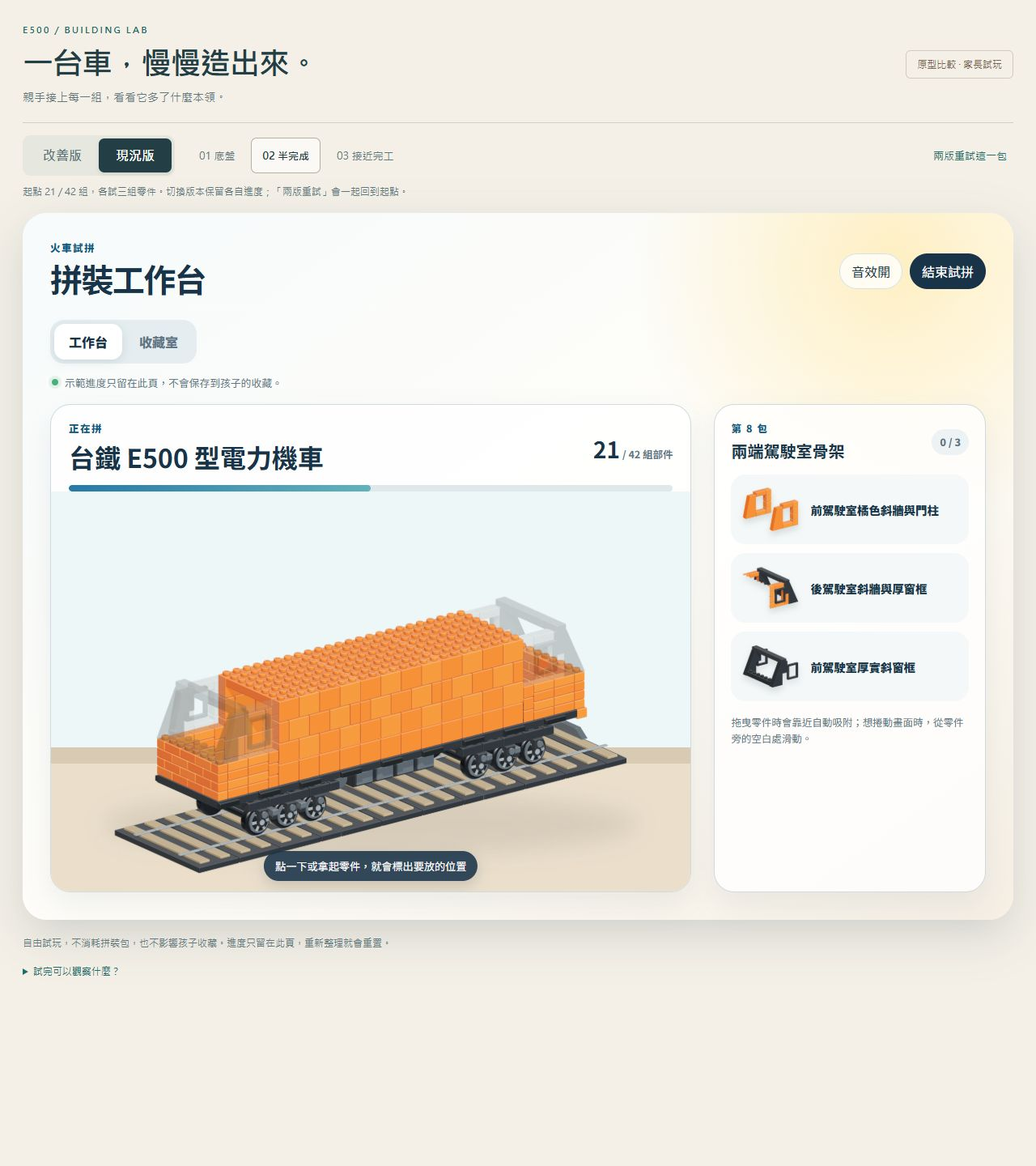
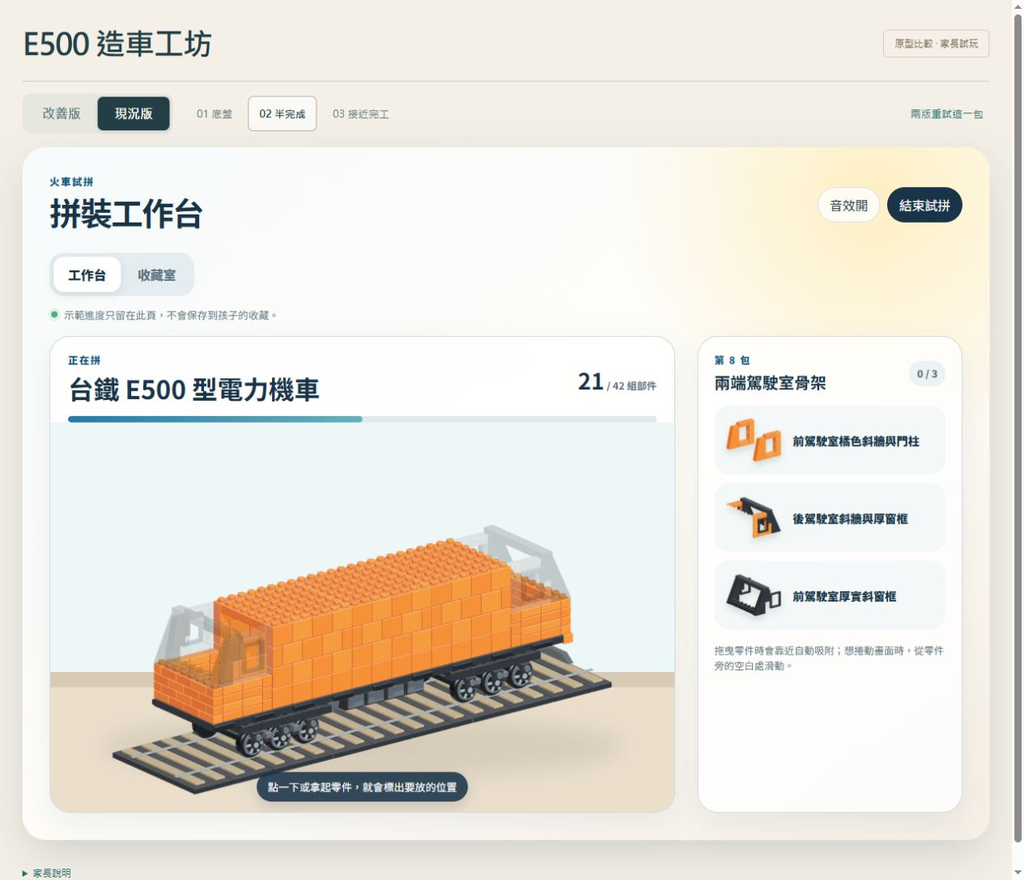
feat(parent): guide E500 assembly with pictures

diff --git a/docs/parent/e500-lab.css b/docs/parent/e500-lab.css
@@ -10,7 +10,8 @@ h1,h2,h3,p { margin:0; }
 .lab-heading { display:flex; justify-content:space-between; gap:18px; align-items:center; margin-bottom:22px; }
 .eyebrow { font-size:11px; letter-spacing:.2em; font-weight:800; color:var(--teal); margin-bottom:9px; }
 .lab-heading h1 { font-size:clamp(25px,3vw,38px); letter-spacing:-.04em; font-weight:800; }
-.lab-heading h1 + p { color:var(--muted); font-size:14px; margin-top:9px; }
+.icon { width:24px; height:24px; flex-shrink:0; vertical-align:middle; pointer-events:none; }
+.part-art { overflow:visible; pointer-events:none; }
 .prototype-badge { border:1px solid #d3cbbd; padding:9px 13px; border-radius:6px; font-size:12px; flex-shrink:0; color:#75634c; }
 .comparison { border-top:1px solid #d3cfc4; padding:15px 0 17px; }
 .comparison-row { display:flex; flex-wrap:wrap; align-items:center; gap:16px; }
@@ -26,14 +27,21 @@ h1,h2,h3,p { margin:0; }
 .workshop { border:1px solid #d3d9d0; background:#fcfbf7; border-radius:18px; overflow:hidden; box-shadow:0 16px 40px #253b4310; }
 .workshop-top { display:flex; justify-content:space-between; align-items:center; gap:20px; padding:23px 28px 17px; }
 .workshop-top h2 { font-size:25px; letter-spacing:-.025em; }
-.workshop-top .eyebrow { margin-bottom:7px; }
+.model-heading { display:flex; align-items:center; gap:18px; }
+.model-count { font-size:20px; font-weight:700; color:var(--teal); }
+.model-count small { font-size:14px; font-weight:500; color:var(--muted); }
 .subtle { color:var(--muted); font-size:12px; line-height:1.6; }
 .tool-actions { display:flex; gap:8px; }
-.quiet-button { min-height:44px; border:1px solid var(--line); border-radius:8px; padding:8px 14px; color:var(--ink); background:transparent; font-size:13px; }
+.quiet-button { display:inline-flex; align-items:center; justify-content:center; gap:8px; min-height:48px; border:1px solid var(--line); border-radius:8px; padding:8px 14px; color:var(--ink); background:transparent; font-size:14px; }
+.icon-button { width:48px; padding:10px; }
 .chapters { display:flex; margin:0 28px 18px; padding:0; list-style:none; gap:4px; }
-.chapters li { flex:1; font-size:12px; color:#7c8c8b; border-top:3px solid #dce1d9; padding-top:9px; }
+.chapters li { flex:1; display:flex; justify-content:center; align-items:center; gap:10px; color:#7c8c8b; border-bottom:3px solid #dce1d9; padding:5px 0 10px; }
+.chapters .part-art { width:62px; height:38px; filter:grayscale(1); opacity:.5; }
+.chapter-number { display:flex; align-items:center; justify-content:center; width:23px; height:23px; border:1px solid currentColor; border-radius:50%; font-size:12px; }
+.chapter-number .icon { width:16px; height:16px; }
 .chapters li.done { border-color:var(--teal); color:var(--teal); }
-.chapters li.active { border-color:var(--orange); color:#a34320; font-weight:750; }
+.chapters li.active { border-color:var(--orange); color:#a34320; background:#fff0df; border-radius:8px 8px 0 0; }
+.chapters li.done .part-art, .chapters li.active .part-art { filter:none; opacity:1; }
 .bench-grid { display:grid; grid-template-columns:minmax(0,1fr) 270px; align-items:stretch; }
 .model-area { min-width:0; background:#e8ede5; position:relative; }
 .scene { width:100%; display:block; background:radial-gradient(ellipse at 45% 72%,#f7f7ed 5%,#e8ede5 68%); touch-action:pan-y; }
@@ -43,54 +51,66 @@ h1,h2,h3,p { margin:0; }
 .ground-line { stroke:#d4dbcf; stroke-width:1; }
 .contact-ring { fill:none; stroke:#cf692f; stroke-width:2.5; stroke-dasharray:5 4; }
 .contact-dot { fill:#fff9e7; stroke:#bd541f; stroke-width:2; }
+.join-arrow { fill:none; stroke:#bd541f; stroke-width:4; stroke-linecap:round; stroke-linejoin:round; }
 .join-guide { pointer-events:none; }
 .join-guide.is-near .contact-ring { stroke:#187365; stroke-dasharray:none; stroke-width:4; }
 .destination { fill:#fff5; stroke:#b36e42; stroke-width:1; stroke-dasharray:4 4; }
 .ghost-part { opacity:.20; filter:grayscale(1); pointer-events:none; }
 .placed-new { filter:drop-shadow(0 0 3px #ecad62); }
-.scene-note { position:absolute; top:16px; left:22px; padding:7px 11px; border:1px solid #cbd4c7; border-radius:5px; font-size:11px; letter-spacing:.04em; background:#f8faf4ce; color:#587166; pointer-events:none; }
-.scene-caption { display:flex; align-items:center; gap:12px; justify-content:space-between; padding:14px 22px; background:#f5f5ed; border-top:1px solid #dbe0d3; min-height:78px; }
-.scene-caption p { font-size:14px; line-height:1.6; }
-.scene-caption small { color:var(--muted); display:block; font-size:12px; margin-top:3px; }
-.reference { display:flex; align-items:center; justify-content:center; gap:12px; padding:10px 18px; border-top:1px solid #dbe0d3; }
-.reference svg { width:135px; max-height:85px; }
-.reference p { font-size:12px; color:var(--muted); line-height:1.7; }
-.reference strong { display:block; color:var(--ink); font-weight:650; }
+.scene-note { position:absolute; display:flex; align-items:center; gap:6px; top:12px; left:18px; padding:7px 11px; border:1px solid #cbd4c7; border-radius:5px; font-size:13px; background:#f8faf4ce; color:#587166; pointer-events:none; }
+.scene-caption { display:flex; align-items:center; justify-content:center; padding:12px 18px; background:#f5f5ed; border-top:1px solid #dbe0d3; min-height:102px; }
+.picture-instructions { display:flex; align-items:center; justify-content:center; gap:12px; }
+.picture-instructions > .icon { width:20px; color:var(--muted); }
+.picture-step { position:relative; width:104px; height:76px; padding:12px 18px 9px 8px; border:1px solid #dde0d5; background:#fff; border-radius:8px; }
+.picture-step b { position:absolute; top:-7px; left:-6px; display:grid; place-items:center; width:21px; height:21px; font-size:11px; background:var(--ink); color:white; border-radius:50%; }
+.picture-step .part-art { width:100%; height:100%; }
+.picture-step .gesture { position:absolute; right:0; bottom:0; background:#fff; border-radius:5px; padding:3px; color:var(--orange); }
+.picture-step .gesture .icon { width:25px; height:25px; }
+.picture-step.target-step { border:2px dashed var(--orange); }
+.picture-step.target-step .part-art { opacity:.25; }
+.picture-step .success { background:#e4f0e4; color:var(--teal); }
+.pack-done { display:flex; gap:28px; color:var(--teal); }
+.pack-done .icon { width:35px; height:35px; }
 .tray { background:#fffcf6; border-left:1px solid #dce0d6; padding:22px 19px; display:flex; flex-direction:column; }
-.tray h3 { font-size:20px; margin:4px 0 8px; }
-.tray .subtle { margin-bottom:16px; }
+.pack-heading { display:flex; justify-content:space-between; align-items:center; margin-bottom:18px; gap:12px; }
+.pack-heading > span { display:flex; align-items:center; gap:6px; font-size:14px; font-weight:650; color:var(--teal); }
+.pack-dots i { border:1.5px solid #b6c5b4; border-radius:50%; width:19px; height:19px; }
+.pack-dots i.done { background:var(--teal); border-color:var(--teal); color:white; }
+.pack-dots .icon { width:16px; height:16px; display:block; }
 .part-list { display:grid; gap:10px; }
-.part-button { display:flex; align-items:center; gap:10px; width:100%; min-height:95px; border:1px solid #deded2; border-radius:10px; padding:9px; background:#fff; text-align:left; color:var(--ink); touch-action:none; user-select:none; -webkit-user-select:none; }
-.part-button svg { width:90px; height:64px; flex-shrink:0; filter:drop-shadow(0 5px 3px #263d3926); overflow:visible; pointer-events:none; }
-.part-button span { font-size:13px; line-height:1.5; pointer-events:none; }
-.part-button small { display:block; color:var(--muted); font-size:11px; margin-top:4px; }
+.part-button { display:flex; align-items:center; justify-content:center; gap:15px; width:100%; min-height:106px; border:1px solid #deded2; border-radius:10px; padding:10px; background:#fff; color:var(--ink); touch-action:none; user-select:none; -webkit-user-select:none; }
+.part-button .part-art { width:135px; height:80px; max-width:calc(100% - 38px); filter:drop-shadow(0 5px 3px #263d3926); }
+.part-state { color:var(--teal); }
+.part-state .icon { width:23px; height:23px; }
 .part-button[aria-pressed="true"] { border-color:var(--orange); background:#fff0df; box-shadow:0 0 0 2px #c7552720; }
 .part-button:disabled { background:#edf2e9; border-color:#d5dfcf; color:#4f6d54; }
-.part-button:disabled svg { opacity:.45; }
-.tray-tip { margin-top:18px; padding-top:16px; border-top:1px solid #e3e4d9; font-size:12px; line-height:1.7; color:var(--muted); }
-.primary { min-height:46px; border:0; border-radius:8px; padding:10px 16px; color:white; background:var(--teal); font-weight:700; }
+.part-button:disabled .part-art { opacity:.45; }
+.primary { display:inline-flex; align-items:center; justify-content:center; gap:10px; min-height:50px; border:0; border-radius:8px; padding:10px 16px; color:white; background:var(--teal); font-weight:700; }
 .place-button { margin-top:14px; width:100%; }
 .place-button:disabled { background:#c5cec3; color:#546158; }
-.ready-status { margin-top:8px; font-size:12px; min-height:19px; color:var(--teal); }
-.round-end { margin-top:14px; padding:16px; background:#e9f0e3; border-radius:10px; }
-.round-end strong { display:block; line-height:1.6; }
-.round-end p { font-size:12px; line-height:1.7; margin:8px 0 12px; }
-.round-end button { width:100%; margin-top:8px; }
-.milestone { padding:18px 26px; display:flex; align-items:center; gap:15px; border-top:1px solid #d8e0d1; background:#eef3e8; }
-.milestone-number { font-size:29px; color:var(--teal); font-weight:300; }
-.milestone p { font-size:13px; line-height:1.6; }
-.milestone small { display:block; color:var(--muted); font-size:12px; }
-.milestone button { margin-left:auto; flex-shrink:0; }
-.push-controls { display:flex; align-items:center; justify-content:center; gap:16px; padding:15px; background:#eef3e8; flex-wrap:wrap; }
-.push-controls button { min-height:44px; }
-.push-controls label { display:flex; align-items:center; gap:10px; font-size:13px; }
-.push-controls input { width:180px; accent-color:var(--teal); min-height:44px; }
+.round-end { margin-top:14px; }
+.compare-button { width:100%; background:white; padding:5px 10px; }
+.compare-button > svg { width:130px; height:80px; }
+.compare-button > span { display:flex; gap:5px; align-items:center; }
+.next-pack { margin-top:18px; padding-top:12px; border-top:1px solid var(--line); font-size:12px; color:var(--muted); }
+.next-pack > div { display:flex; align-items:center; gap:8px; margin-top:7px; }
+.next-pack .part-art { width:calc((100% - 48px) / 3); height:45px; }
+.next-pack .icon { width:18px; }
+.finished-mark { display:flex; align-items:center; justify-content:center; gap:10px; color:var(--teal); font-size:18px; margin-top:18px; }
+.milestone { padding:12px 26px; display:flex; justify-content:center; align-items:center; gap:24px; border-top:1px solid #d8e0d1; background:#eef3e8; flex-wrap:wrap; }
+.push-button { display:flex; align-items:center; justify-content:center; gap:20px; border:1px solid #a6bda2; border-radius:12px; min-height:58px; padding:10px 25px; color:var(--teal); background:#fcfff6; font-weight:700; }
+.push-button[aria-pressed="true"] { background:var(--teal); color:#fff; }
+.push-button:disabled { opacity:.4; }
+.push-gesture { display:inline-flex; align-items:center; gap:10px; color:var(--teal); }
+.push-gesture .icon { width:27px; height:27px; }
+.push-gesture .icon:nth-child(2) { width:34px; height:34px; }
+.push-controls { display:flex; align-items:center; justify-content:center; gap:14px; }
+.push-controls input { width:180px; accent-color:var(--teal); min-height:48px; }
 .asset-notice { padding:35px 24px; text-align:center; line-height:1.8; }
 .asset-notice button { margin-top:15px; }
 .pause-card { text-align:center; padding:45px 20px; background:#fcfbf7; border:1px solid var(--line); border-radius:16px; }
-.pause-card svg { width:min(100%,530px); display:block; margin:0 auto 12px; }
-.pause-card h2 { margin-bottom:10px; }
-.pause-card p { line-height:1.8; color:var(--muted); margin-bottom:18px; }
+.pause-card > svg { width:min(100%,530px); display:block; margin:0 auto 12px; }
+.pause-count { font-size:22px; color:var(--teal); margin-bottom:18px; }
 .flying-part { position:fixed; z-index:1000; pointer-events:none; transform-origin:center; filter:drop-shadow(0 12px 6px #203d3b40); }
 .flying-part svg { width:100%; height:100%; overflow:visible; display:block; }
 .lab-footer { color:var(--muted); font-size:12px; line-height:1.8; padding-top:18px; }
@@ -99,7 +119,7 @@ h1,h2,h3,p { margin:0; }
 .lab-footer details p { max-width:690px; }
 .sr-only { position:absolute; width:1px; height:1px; overflow:hidden; clip-path:inset(50%); white-space:nowrap; }
 #current-host .brick-workshop { margin:0; max-width:none; }
-@media(max-width:1000px) { .lab { padding:20px; } .bench-grid { grid-template-columns:minmax(0,1fr) 225px; } .tray { padding:18px 13px; } .part-button { gap:5px; } .part-button svg { width:72px; } .comparison-row { gap:8px; } #reset-trials { margin-left:0; } }
-@media(max-width:800px) { .bench-grid { grid-template-columns:1fr; } .tray { border-left:0; border-top:1px solid var(--line); padding:18px 22px; } .part-list { grid-template-columns:repeat(3,minmax(0,1fr)); } .part-button { flex-direction:column; text-align:center; min-height:120px; } .part-button svg { width:100px; max-width:100%; } .tray .subtle { margin-bottom:12px; } .tray-tip { margin-top:10px; padding-top:10px; } .reference { position:absolute; top:6px; right:10px; border:0; padding:0; gap:6px; } .reference svg { width:85px; height:55px; } .reference p { font-size:10px; } .reference strong { display:none; } .scene-note { top:15px; left:18px; } }
-@media(max-width:520px) { .lab { padding:16px 10px; } .lab-heading { display:block; margin:0 8px 18px; } .prototype-badge { display:inline-block; margin-top:13px; } .lab-heading h1 { font-size:27px; } .comparison-row { gap:10px; } .segmented { width:100%; } .segmented button { flex:1; } .stage-choices { width:100%; gap:3px; } .stage-choices button { padding:8px; flex:1; } #reset-trials { padding:0 5px; min-height:30px; } .workshop-top { padding:20px 16px 14px; gap:10px; align-items:flex-start; } .workshop-top h2 { font-size:20px; } .tool-actions { flex-direction:column; gap:5px; } .tool-actions button { padding:7px 9px; font-size:11px; } .chapters { margin:0 16px 15px; } .chapters li { font-size:10px; } .scene-note { position:static; border:0; border-bottom:1px solid #d5ddce; border-radius:0; display:block; padding:9px 15px; background:#edf1e7; } .scene-caption { padding:12px 15px; } .scene-caption p { font-size:12px; } .reference { position:static; border-top:1px solid #dbe0d3; padding:7px; } .reference svg { width:110px; height:65px; } .reference p { font-size:12px; } .reference strong { display:block; } .tray { padding:16px; } .part-list { gap:6px; } .part-button { padding:6px 4px; } .part-button span { font-size:12px; } .part-button svg { height:50px; } .milestone { padding:16px; flex-wrap:wrap; gap:10px; } .milestone button { margin-left:0; } }
+@media(max-width:1000px) { .lab { padding:20px; } .bench-grid { grid-template-columns:minmax(0,1fr) 225px; } .tray { padding:18px 13px; } .part-button { gap:8px; } .comparison-row { gap:8px; } #reset-trials { margin-left:0; } }
+@media(max-width:800px) { .bench-grid { grid-template-columns:1fr; } .tray { border-left:0; border-top:1px solid var(--line); padding:18px 22px; } .part-list { grid-template-columns:repeat(3,minmax(0,1fr)); } .part-button { flex-direction:column; min-height:112px; gap:6px; } .part-button .part-art { width:115px; max-width:100%; height:62px; } .round-end { display:flex; align-items:center; gap:20px; } .compare-button { width:50%; } .next-pack { width:50%; margin:0; padding:0; border:0; } }
+@media(max-width:520px) { .lab { padding:16px 10px; } .lab-heading { display:block; margin:0 8px 15px; } .prototype-badge { display:inline-block; margin-top:10px; } .lab-heading h1 { font-size:27px; } .comparison-row { gap:10px; } .segmented { width:100%; } .segmented button { flex:1; } .stage-choices { width:100%; gap:3px; } .stage-choices button { padding:8px; flex:1; } #reset-trials { padding:0 5px; min-height:32px; } .workshop-top { padding:16px; gap:8px; } .workshop-top h2 { font-size:20px; } .model-heading { gap:8px; } .model-count { font-size:17px; } .model-count small { font-size:11px; } .tool-actions { gap:5px; } .tool-actions button { padding:7px 9px; font-size:13px; } .chapters { margin:0 12px 12px; } .chapters li { flex-direction:column; gap:5px; } .chapters .part-art { width:45px; height:30px; } .chapter-number { width:19px; height:19px; font-size:10px; } .scene-caption { padding:12px 10px; min-height:88px; } .picture-instructions { gap:7px; } .picture-instructions > .icon { width:15px; } .picture-step { width:78px; height:62px; padding:11px 10px 8px 5px; } .picture-step .gesture .icon { width:20px; height:20px; } .tray { padding:16px; } .part-list { gap:6px; } .part-button { padding:8px 5px; min-height:108px; } .part-button .part-art { height:55px; } .milestone { padding:12px; gap:12px; } .push-controls { gap:10px; } .push-controls input { width:170px; } .compare-button { padding:4px; flex-direction:column; } .compare-button > svg { width:100px; height:58px; } .round-end { gap:12px; } }
 @media(prefers-reduced-motion:reduce) { *,*::before,*::after { animation-duration:.01ms !important; transition-duration:.01ms !important; scroll-behavior:auto !important; } }

diff --git a/docs/parent/e500-lab.js b/docs/parent/e500-lab.js
@@ -39,12 +39,49 @@
   function miniature(ids, label) {
     return `<svg viewBox="45 80 720 420" role="img" aria-label="${esc(label)}">${pieces(ids)}</svg>`;
   }
+  function icon(name) {
+    const paths = {
+      check: '<path d="m5 12 4 4L19 6"/>',
+      arrow: '<path d="M4 12h16m-6-6 6 6-6 6"/>',
+      left: '<path d="M20 12H4m6-6-6 6 6 6"/>',
+      down: '<path d="M12 3v16m-6-6 6 6 6-6"/>',
+      pause: '<path d="M8 5v14M16 5v14"/>',
+      play: '<path d="m8 4 12 8-12 8Z"/>',
+      history: '<path d="M4 9a8 8 0 1 1 0 7M4 3v6h6m2-2v6l4 2"/>',
+      bag: '<path d="M5 7h14l2 14H3ZM9 7V3h6v4"/>',
+      sound: '<path d="M3 9h4l5-5v16l-5-5H3Zm13-2a7 7 0 0 1 0 10m3-13a11 11 0 0 1 0 16"/>',
+      muted: '<path d="M3 9h4l5-5v16l-5-5H3Zm13 0 6 6m0-6-6 6"/>',
+      hand: '<path d="M9 12V4a2 2 0 0 1 4 0v7-3a2 2 0 0 1 4 0v3-1a2 2 0 0 1 4 0v5c0 4-3 7-7 7h-1c-3 0-4-2-6-4l-3-4a2 2 0 0 1 3-3l2 2"/>',
+      block: '<path d="M3 9h18v12H3Zm4 0V4h4v5m2 0V4h4v5"/>',
+    };
+    return `<svg class="icon" viewBox="0 0 24 24" fill="none" stroke="currentColor" stroke-width="2" stroke-linecap="round" stroke-linejoin="round" aria-hidden="true">${paths[name]}</svg>`;
+  }
+  function partPicture(part, ids = placed()) {
+    const b = part.box;
+    return `<svg class="part-art" viewBox="${b.x} ${b.y} ${b.width} ${b.height}" aria-hidden="true">${artwork(part, ids)}</svg>`;
+  }
+  function instructionGraphic() {
+    const part = partById(selected) || pack().find(item => !placed().has(item.id));
+    if (!part) return "";
+    return `<div class="picture-instructions" role="img" aria-label="1 選零件；2 拖到虛線接點，或點一下接點；3 接好">
+      <div class="picture-step"><b>1</b>${partPicture(part)}<span class="gesture">${icon("hand")}</span></div>${icon("arrow")}
+      <div class="picture-step target-step"><b>2</b>${partPicture(part)}<span class="gesture">${icon("down")}</span></div>${icon("arrow")}
+      <div class="picture-step"><b>3</b>${partPicture(part)}<span class="gesture success">${icon("check")}</span></div></div>`;
+  }
+  function pushGraphic() {
+    return `<span class="push-gesture" role="img" aria-label="按住模型，左右拖動">${icon("left")}${icon("hand")}${icon("arrow")}</span>`;
+  }
+  function nextPackGraphic() {
+    const next = model.steps[trial().packIndex + 1];
+    return next ? `<div class="next-pack" role="img" aria-label="${esc(preset().next)}"><span>下一包</span><div>${icon("arrow")}${next.parts.map(part => partPicture(part)).join("")}</div></div>` : `<div class="finished-mark" role="img" aria-label="E500 全部完成">${icon("check")}<span>42 / 42</span></div>`;
+  }
   function guide(part) {
     if (!part) return "";
     const b = part.box, x = b.x + b.width / 2, y = b.y + b.height / 2;
     return `<g class="join-guide"><g class="ghost-part">${artwork(part, placed())}</g>
       <rect class="destination" x="${b.x - 7}" y="${b.y - 7}" width="${b.width + 14}" height="${b.height + 14}" rx="9"/>
       <circle class="contact-ring" cx="${x}" cy="${y}" r="18"/><circle class="contact-dot" cx="${x}" cy="${y}" r="5"/>
+      <path class="join-arrow" d="M${x} ${y-60}v30m-9-9 9 9 9-9"/>
       </g><rect data-place-target tabindex="0" role="button" aria-label="接上：${esc(part.name)}" x="${b.x - 15}" y="${b.y - 15}" width="${Math.max(44, b.width + 30)}" height="${Math.max(44, b.height + 30)}" fill="transparent"/>`;
   }
   function statusText() {
@@ -60,35 +97,35 @@
     }
     const ids = placed(), completed = doneCount() === 3;
     if (paused) {
-      host.innerHTML = `<section class="pause-card">${miniature(ids,"留在工作台的 E500 半成品")}<p class="eyebrow">工作台替你留著</p><h2>你的 E500 已經造到這裡。</h2><p>${completed ? preset().next : `這包還有 ${3 - doneCount()} 組零件。`}<br>回到此頁可以接著拼；重新整理會重置這份示範。</p><button class="primary" data-action="resume">回工作台接著拼</button></section>`;
+      host.innerHTML = `<section class="pause-card">${miniature(ids,"留在工作台的 E500 半成品")}<p class="pause-count">${ids.size} / 42</p><button class="primary" data-action="resume" aria-label="回工作台接著拼">${icon("play")}繼續</button></section>`;
       return;
     }
     const shown = before ? new Set(trial().initial) : ids;
     // A trial pack can finish before a structural chapter does: suspension
     // follows the chassis, and glazing follows the cab frames.
     const chapter = shown.size < 15 ? 0 : shown.size < 21 ? 1 : shown.size < 27 ? 2 : shown.size < 36 ? 3 : 4;
-    const chapters = ["底盤", "橘色車身", "駕駛室", "車頂設備", "車頭收尾"];
-    const all = new Set(parts.map(part => part.id));
+    const chapters = [["底盤","p4-2"], ["橘色車身","p7-2"], ["駕駛室","p8-3"], ["車頂設備","p12-1"], ["車頭收尾","p14-2"]];
     host.innerHTML = `<section class="workshop" aria-label="E500 改善版工作台">
-      <div class="workshop-top"><div><p class="eyebrow">TAIWAN RAILWAY / E500</p><h2>${completed ? preset().done : preset().label}</h2><p class="subtle">${ids.size} / 42 組已裝好 · 本包 ${doneCount()} / 3</p></div><div class="tool-actions"><button class="quiet-button" data-action="sound" aria-pressed="${audioEnabled}">${audioEnabled ? "音效開" : "音效關"}</button><button class="quiet-button" data-action="pause">稍後再拼</button></div></div>
-      <ol class="chapters" aria-label="整台建造階段">${chapters.map((name,index) => `<li class="${shown.size === 42 || index < chapter ? "done" : index === chapter ? "active" : ""}" ${index === chapter && shown.size < 42 ? 'aria-current="step"' : ""}>${index + 1} ${name}</li>`).join("")}</ol>
-      <div class="bench-grid"><div class="model-area"><div class="scene-note">${before ? "本包開始前" : pushing ? "試車台 · 親手推動" : "施工中 · 已裝的零件都留在這裡"}</div>
+      <div class="workshop-top"><div class="model-heading"><h2>E500</h2><span class="model-count" aria-label="${shown.size} / 42 組已裝好">${shown.size}<small> / 42</small></span></div><div class="tool-actions"><button class="quiet-button icon-button" data-action="sound" aria-label="${audioEnabled ? "音效開" : "音效關"}" aria-pressed="${audioEnabled}">${icon(audioEnabled ? "sound" : "muted")}</button><button class="quiet-button" data-action="pause" aria-label="稍後再拼">${icon("pause")}休息</button></div></div>
+      <ol class="chapters" aria-label="整台建造階段">${chapters.map(([name,id],index) => {
+        const done = shown.size === 42 || index < chapter;
+        return `<li class="${done ? "done" : index === chapter ? "active" : ""}" aria-label="${index+1} ${name}${done ? "已完成" : index === chapter ? "組裝中" : "尚未完成"}" ${index === chapter && shown.size < 42 ? 'aria-current="step"' : ""}><span class="chapter-number">${done ? icon("check") : index+1}</span>${partPicture(partById(id))}</li>`;
+      }).join("")}</ol>
+      <div class="bench-grid"><div class="model-area">${before ? `<div class="scene-note">${icon("history")}回看</div>` : ""}
         <svg class="scene${pushing ? " is-pushing" : ""}" id="lab-scene" viewBox="${preset().viewBox}" role="group" aria-label="E500 ${before ? "本包開始前" : "施工模型"}">
           <path class="ground-line" d="M65 445L745 270 M65 470L745 295"/>${pieces(shown, {rail:true})}
           <g id="movable-train" transform="translate(${offset} ${-offset * .257})">${pieces(shown,{rail:false,highlight:completed && !before})}</g>
           <g id="placement-guide">${!before && !pushing && selected ? guide(partById(selected)) : ""}</g>
         </svg>
-        <div class="scene-caption"><div><p id="scene-message">${statusText()}</p><small>${completed && !before ? preset().after : preset().before}</small></div></div>
-        <div class="reference">${miniature(all,"E500 完成外觀參考")}<p><strong>它會長成這樣</strong>完成參考</p></div>
-      </div><aside class="tray" aria-label="改善版本包零件"><p class="eyebrow">第 ${trial().packIndex + 1} 包 / 14</p><h3>${completed ? "這一包，完成了。" : "今天接上這三組"}</h3><p class="subtle">${completed ? "看看這次多了什麼，再決定何時繼續。" : "拿起零件拖曳，或點零件再點接點。"}</p>
-        <div class="part-list">${pack().map((part,index) => {
-          const isPlaced = ids.has(part.id), b = part.box;
-          return `<button class="part-button" data-part="${part.id}" aria-label="${esc(part.name)}" aria-pressed="${selected === part.id}" ${isPlaced || before || pushing ? "disabled" : ""}><svg viewBox="${b.x} ${b.y} ${b.width} ${b.height}" aria-hidden="true">${artwork(part, ids)}</svg><span>${preset().shortNames[index]}<small>${isPlaced ? "已接好" : before ? "正在回看" : pushing ? "試推中" : "拿起來"}</small></span></button>`;
+        <div class="scene-caption"><div id="picture-guide">${pushing ? pushGraphic() : completed ? `<span class="pack-done" role="img" aria-label="這一包三組已接好">${icon("check")}${icon("check")}${icon("check")}</span>` : instructionGraphic()}</div><p id="scene-message" class="sr-only">${statusText()}</p></div>
+      </div><aside class="tray" aria-label="改善版本包零件"><div class="pack-heading"><span aria-label="第 ${trial().packIndex+1} 包，共 14 包">${icon("bag")}${trial().packIndex + 1} / 14</span><span class="pack-dots" role="img" aria-label="本包 ${doneCount()} / 3 組已接好">${pack().map(part => `<i class="${ids.has(part.id) ? "done" : ""}">${ids.has(part.id) ? icon("check") : ""}</i>`).join("")}</span></div>
+        <div class="part-list">${pack().map(part => {
+          const isPlaced = ids.has(part.id);
+          return `<button class="part-button" data-part="${part.id}" aria-label="${esc(part.name)}${isPlaced ? "，已接好" : ""}" aria-pressed="${selected === part.id}" ${isPlaced || before || pushing ? "disabled" : ""}>${partPicture(part,ids)}<span class="part-state">${icon(isPlaced ? "check" : "hand")}</span></button>`;
         }).join("")}</div>
-        ${!completed ? `<button class="primary place-button" data-action="place" ${!selected || before || pushing ? "disabled" : ""}>${selected ? "接上選好的零件" : "先選一組零件"}</button><p class="ready-status" id="ready-status">${before || pushing ? "回到組裝就能繼續。" : "位置會提示，不用猜。"}</p><p class="tray-tip">靠近接點會自動對準。<br>放到空白處即可取消；隨時能再拿起來。</p>` : `<div class="round-end"><strong>${preset().next}</strong><p>你剛才親手接上的三組，已留在模型上。</p><button class="quiet-button" data-action="before" aria-pressed="${before}">${before ? "回到現在" : "看看本包開始前"}</button><button class="primary" data-action="pause">先把作品留在這裡</button></div>`}
+        ${!completed ? `<button class="primary place-button" data-action="place" aria-label="接上選好的零件" ${!selected || before || pushing ? "disabled" : ""}>${icon("down")}接上</button><p class="sr-only" id="ready-status">${before || pushing ? "回到組裝就能繼續。" : "靠近接點會對準，放到空白處會取消。"}</p>` : `<div class="round-end"><button class="quiet-button compare-button" data-action="before" aria-label="${before ? "回到現在" : "看看本包開始前"}" aria-pressed="${before}">${miniature(before ? ids : new Set(trial().initial),before ? "本包完成後" : "本包開始前")}<span>${icon(before ? "arrow" : "history")}${before ? "現在" : "回看"}</span></button>${nextPackGraphic()}</div>`}
       </aside></div>
-      ${ids.size >= 12 ? `<div class="milestone"><span class="milestone-number">↔</span><p><strong>${presetId === "chassis" ? "輪架與底盤連起來了。" : "造好的部分，已經可以動。"}</strong><small>親手推一推，試玩不會增加組裝進度。</small></p><button class="quiet-button" data-action="push" aria-pressed="${pushing}" ${before ? "disabled" : ""}>${pushing ? "回到組裝" : "試推看看"}</button></div>` : ""}
-      ${pushing ? '<div class="push-controls"><button class="quiet-button" data-action="push-left">往左推</button><label>車的位置 <input id="push-position" type="range" min="-45" max="45" value="0" step="1"></label><button class="quiet-button" data-action="push-right">往右推</button></div>' : ""}
+      ${ids.size >= 12 ? `<div class="milestone"><button class="push-button" data-action="push" aria-label="${pushing ? "回到組裝" : "試推看看"}" aria-pressed="${pushing}" ${before ? "disabled" : ""}>${pushing ? icon("block") : pushGraphic()}<span>${pushing ? "組裝" : "試推"}</span></button>${pushing ? `<div class="push-controls"><button class="quiet-button icon-button" data-action="push-left" aria-label="往左推">${icon("left")}</button><input id="push-position" type="range" aria-label="車的位置" min="-45" max="45" value="0" step="1"><button class="quiet-button icon-button" data-action="push-right" aria-label="往右推">${icon("arrow")}</button></div>` : ""}</div>` : ""}
     </section>`;
     if (pushing) updateOffset(offset);
   }
@@ -100,7 +137,8 @@
     host.querySelector("#placement-guide").innerHTML = guide(partById(id));
     host.querySelector("#scene-message").textContent = statusText();
     const button = host.querySelector('[data-action="place"]');
-    button.disabled = false; button.textContent = "接上選好的零件";
+    button.disabled = false;
+    host.querySelector("#picture-guide").innerHTML = instructionGraphic();
     announce(statusText());
   }
   function destination(part) {
@@ -181,7 +219,7 @@
     const action = event.target.closest("[data-action]")?.dataset.action;
     if (!action) return;
     if (action === "retry") { loadAssets(); return; }
-    if (action === "sound") { audioEnabled = !audioEnabled; sound.setEnabled(audioEnabled); if (audioEnabled) sound.unlock(); const button=event.target.closest("button");button.textContent=audioEnabled ? "音效開" : "音效關";button.setAttribute("aria-pressed",String(audioEnabled));return; }
+    if (action === "sound") { audioEnabled = !audioEnabled; sound.setEnabled(audioEnabled); if (audioEnabled) sound.unlock(); const button=event.target.closest("button");button.innerHTML=icon(audioEnabled ? "sound" : "muted");button.setAttribute("aria-label",audioEnabled ? "音效開" : "音效關");button.setAttribute("aria-pressed",String(audioEnabled));return; }
     if (action === "place") { if (selected) install(selected); return; }
     if (action === "push-left" || action === "push-right") { updateOffset(offset + (action === "push-left" ? -20 : 20)); return; }
     cancelInteraction(); selected = null;

diff --git a/docs/parent/e500-lab.html b/docs/parent/e500-lab.html
@@ -19,7 +19,7 @@
 <body>
   <main class="lab">
     <header class="lab-heading">
-      <div><p class="eyebrow">E500 / BUILDING LAB</p><h1>一台車，慢慢造出來。</h1><p>親手接上每一組，看看它多了什麼本領。</p></div>
+      <h1>E500 造車工坊</h1>
       <span class="prototype-badge">原型比較 · 家長試玩</span>
     </header>
     <section class="comparison" aria-label="比較設定">
@@ -35,14 +35,13 @@
         </div>
         <button type="button" class="text-button" id="reset-trials">兩版重試這一包</button>
       </div>
-      <p id="comparison-note">同一個起點，各試三組零件。切換版本會保留各自的操作進度。</p>
+      <p id="comparison-note" class="sr-only">同一個起點，各試三組零件。切換版本會保留各自的操作進度。</p>
     </section>
     <div id="improved-host"></div>
     <div id="current-host" hidden></div>
     <p id="lab-announcement" class="sr-only" role="status" aria-live="polite"></p>
     <footer class="lab-footer">
-      <p>自由試玩，不消耗拼裝包，也不影響孩子收藏。進度只留在此頁，重新整理就會重置。</p>
-      <details><summary>試完可以觀察什麼？</summary><p>看得出已造好哪裡、還缺什麼嗎？接合時像自己裝上的嗎？試推之後，會想繼續造嗎？先比較手感，再跨幾次觀察新鮮感。</p></details>
+      <details><summary>家長說明</summary><p>兩版從相同起點各試三組，切換保留各自進度，重試一起回到起點。自由試玩，不消耗拼裝包，也不影響孩子收藏；重新整理會重置。試推：按「試推」，再用滑鼠或手指按住模型左右移動，也能用箭頭按鈕或滑桿。看得出已造好哪裡、還缺什麼嗎？接合時像自己裝上的嗎？先比較手感，再跨幾次觀察新鮮感。</p></details>
     </footer>
     <noscript>請開啟 JavaScript，才能試拼火車。</noscript>
   </main>

diff --git a/docs-dev/e500-assembly-prototype.md b/docs-dev/e500-assembly-prototype.md
@@ -8,7 +8,7 @@
 
 1. 先試預設的「半完成」：點零件再點接點／接合按鈕，或直接拖曳零件。
 2. 切換「現況版」試同一包。兩個版本各自保留進度，「兩版重試」會一起回到相同起點。
-3. 完成三組後看「本包開始前／現在」；試「稍後再拼」及「試推看看」。
+3. 完成三組後用「回看／現在」切換；試「休息／繼續」及「試推」。
 4. 再看底盤與接近完工，確認不同階段的差異是否容易辨認。
 
 | 起點 | 實際使用的包 | 比較進度 | 要回答的問題 |
@@ -20,10 +20,11 @@
 ## 實作範圍
 
 - 使用既有 E500 的 42 組分件及遮擋素材。現況版直接掛載既有 `KidsBrickWorkshop`，改善版使用獨立介面。
-- 放大施工模型，另放小型完成參考；階段依已裝結構判定，完成一包不必然等於完成整個階段。
+- 放大施工模型，階段以實際部件圖及勾選顯示；完成一包不必然等於完成整個階段。依家長回饋移除完成參考。
+- 6y／9y 共用，孩子主要路徑以實際零件圖片、手勢、接點箭頭、三格操作圖與勾選引導。保留「接上／休息／回看／試推」等短標籤及完整 ARIA 名稱；長說明收進家長說明。
 - 拿起的零件以模型上的尺寸移動，靠近接點會對準，再接合落位。點按與拖曳都能完成，拖到空白處／Escape 可取消。
 - 每個版本、每個起點各有獨立記憶體進度；沒有 family API、登入、收藏儲存或獎勵發包。CSP 阻擋資料連線。
-- 「稍後再拼」僅保留目前頁面的記憶體。重新整理會重置；不是跨裝置保存功能。
+- 「休息」僅保留目前頁面的記憶體。重新整理會重置；不是跨裝置保存功能。
 - 試推只把已組好的車體沿軌道方向平移，車輪沒有獨立旋轉或物理模擬。
 - 僅比較這三包，沒有實作一整台車的改善版連續流程，也沒有修改正式工作台或首頁入口。
 
@@ -43,7 +44,15 @@
 
 獨立 agent review 發現半完成包結束後階段過早跳到車頂，已改用實際結構界線，也修正回看開始前時的說明文字。未修改共用 production 檔案。
 
-尚待人工驗證：實體 iPad／觸控筆、作業系統 reduced motion 偏好、主觀拼裝感，以及跨數次使用的新鮮感。reduced motion 已有跳過接合動畫及 CSS 簡化路徑，但本次只檢查實作，未切換實體裝置偏好。
+尚待人工驗證：實體 iPad／觸控筆、作業系統 reduced motion 偏好、6y 能否理解圖形指示，以及跨數次使用的新鮮感。reduced motion 已有跳過接合動畫及 CSS 簡化路徑，但本次只檢查實作，未切換實體裝置偏好。
+
+### 圖形引導修訂
+
+家長已回饋「拼的感覺有改善很 ok」，並要求拿掉完成參考，讓不熟文字的 6y 也能與 9y 共用。此輪保留接合動作，將零件名稱、段落說明、階段文字改成實際分件圖片、操作示意與勾選。
+
+修訂後相關 22 tests、語法及 diff 檢查通過；三個起點皆在瀏覽器完成，涵蓋 SVG 接點 Enter、點按、拖曳、回看、休息繼續與版本隔離。768×1024、1024×768、390×844 無橫向溢出，正常入口 console 無 error／warning。獨立 review 發現休息畫面圖示誤套模型 SVG 尺寸，已限縮 selector 並確認圖示恢復 24px。
+
+本機試推實測：預設半完成頁按「試推」，滑鼠按住車身左右拖，車體沿軌道移動、組裝數維持 21 / 42；箭頭按鈕也可用。底盤頁需先接完三組才出現試推。按「組裝」可繼續拼。車輪仍不獨立旋轉，拖動距離有限，屬用途里程碑的最小原型。
 
 ## 相同起點畫面
 
@@ -57,6 +66,10 @@
 
 ![E500 改善版半完成與接點](e500-lab-improved.jpg)
 
+### 試推模式
+
+![E500 圖形試推提示及左右控制](e500-lab-push.jpg)
+
 ## 下一個決策
 
-先記錄家長對模型大小、接合手感、半成品辨識及試推的偏好，再決定哪些項目值得進正式版。孩子回饋需跨數次使用，不以一次「喜歡」判定重複性已解決。正式整合及其他車款需另確認範圍。
+接合手感已獲家長肯定；接著確認圖形版能否讓 6y 少靠大人說明操作，再決定正式版範圍。孩子回饋需跨數次使用，不以一次「喜歡」判定重複性已解決。正式整合及其他車款需另確認範圍。
